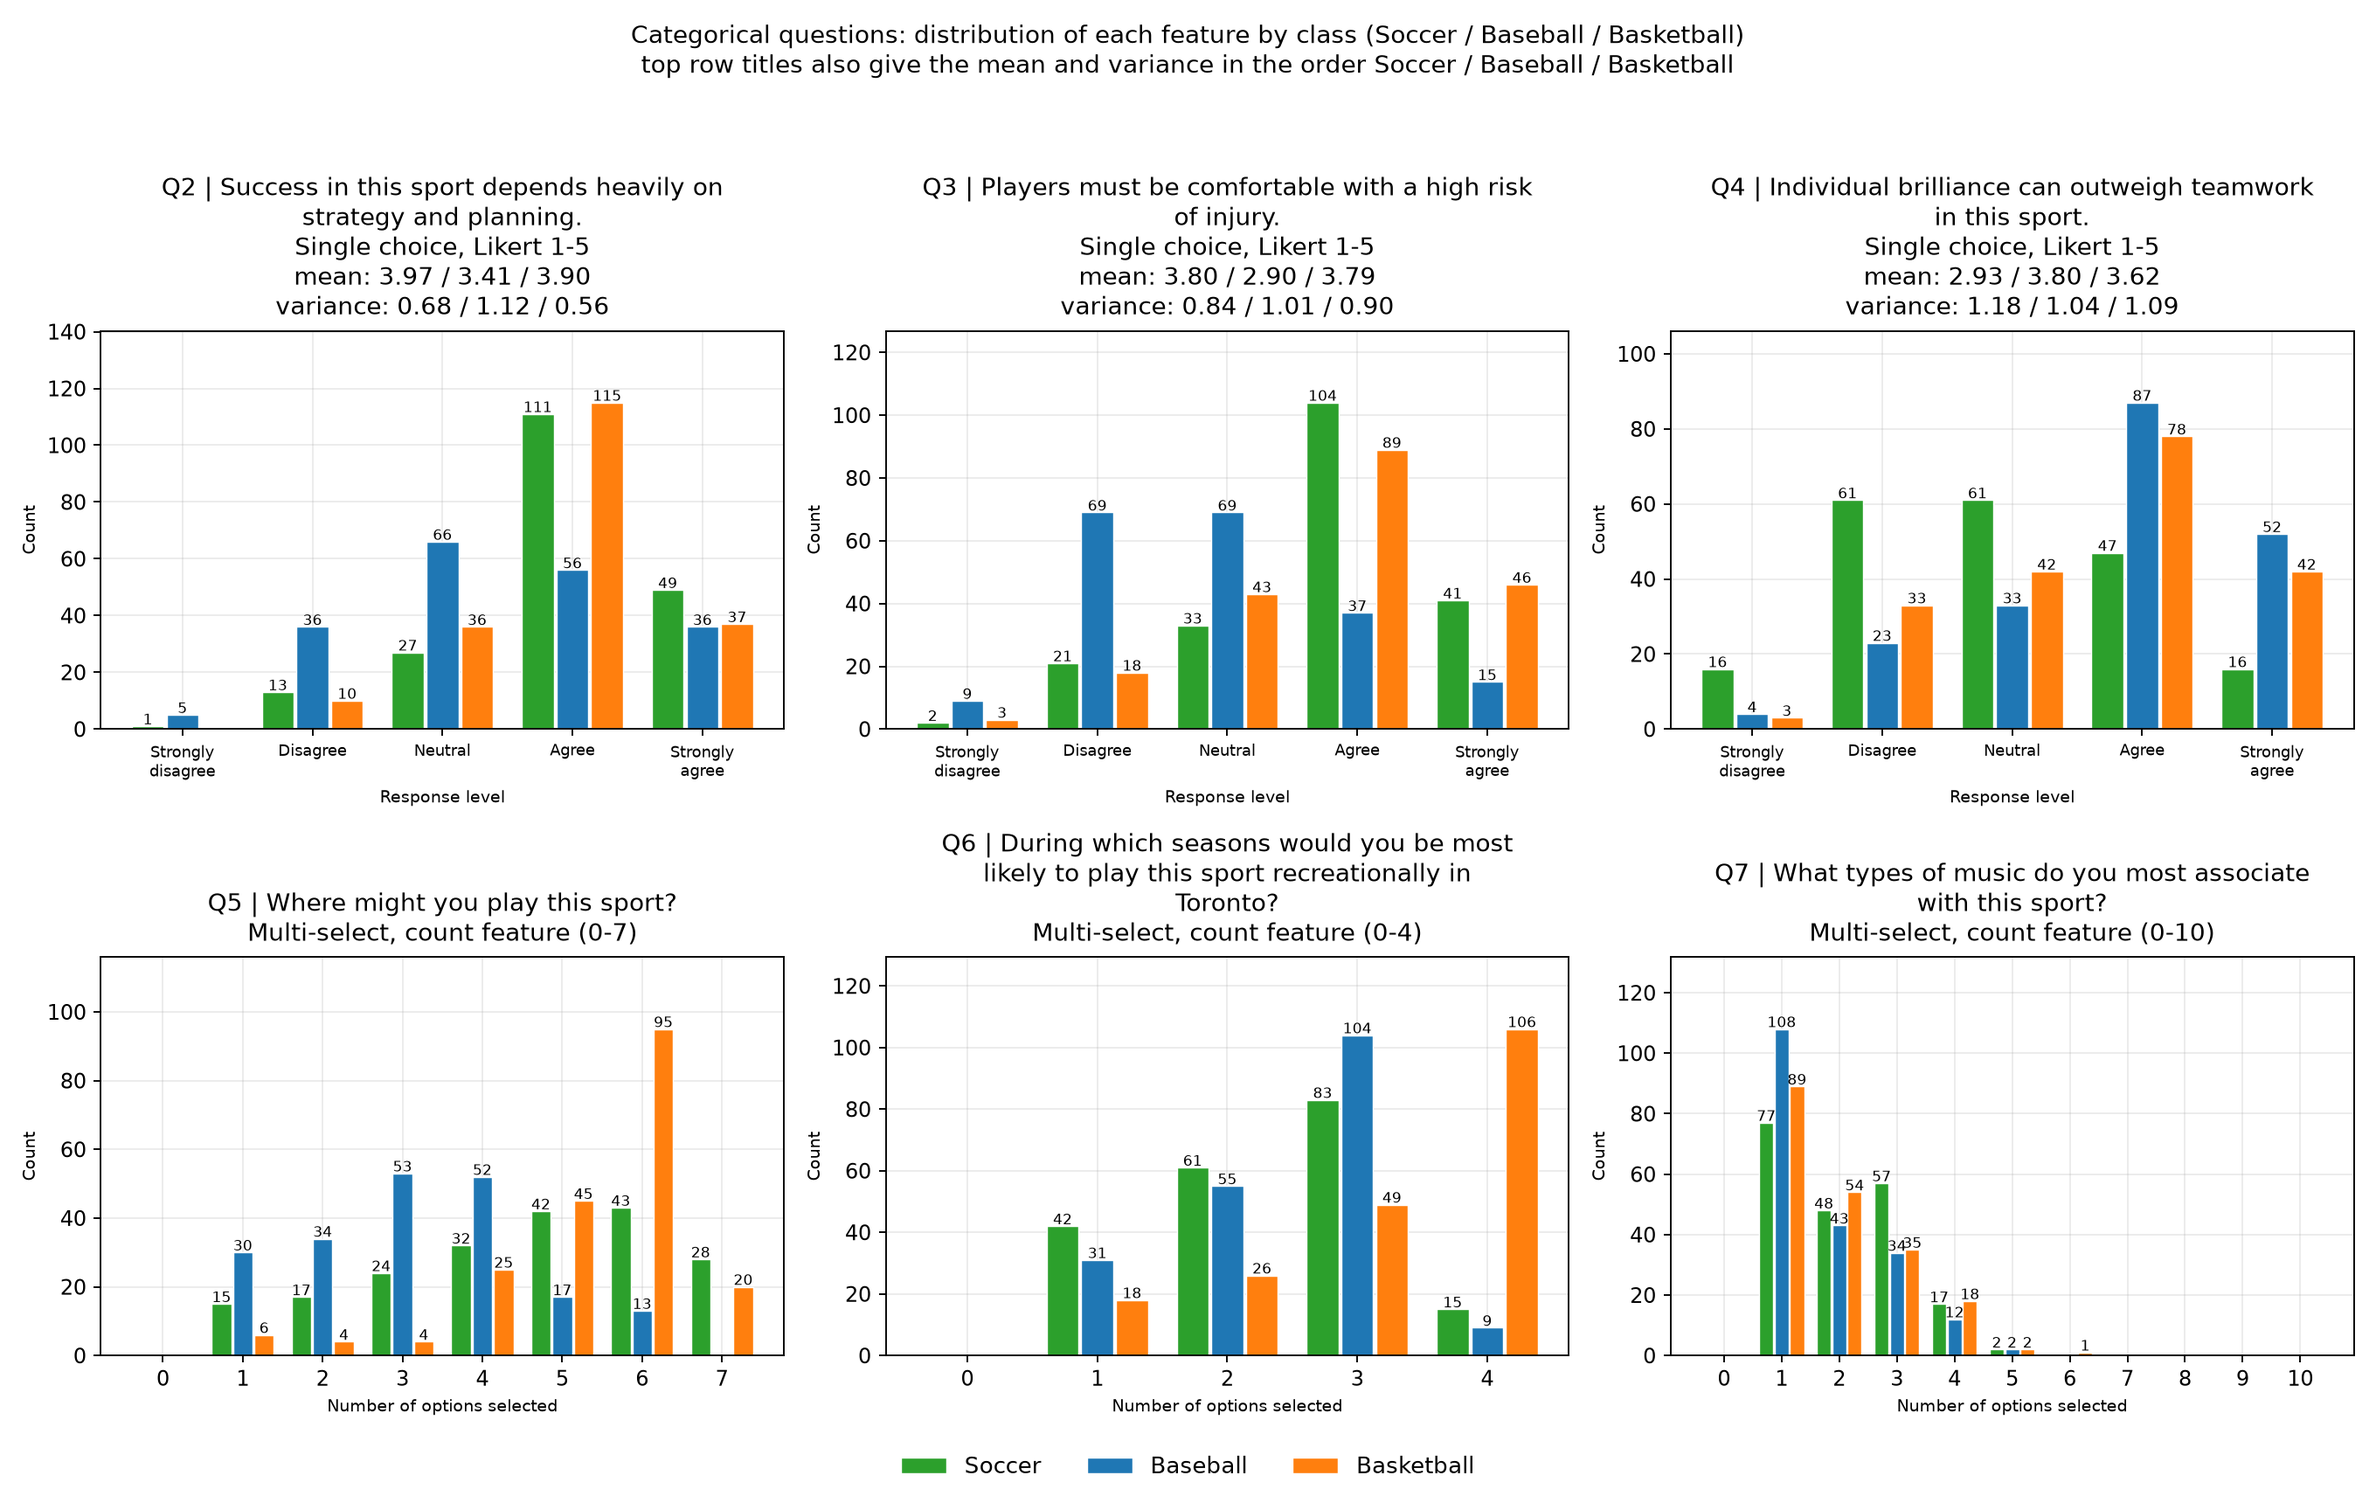
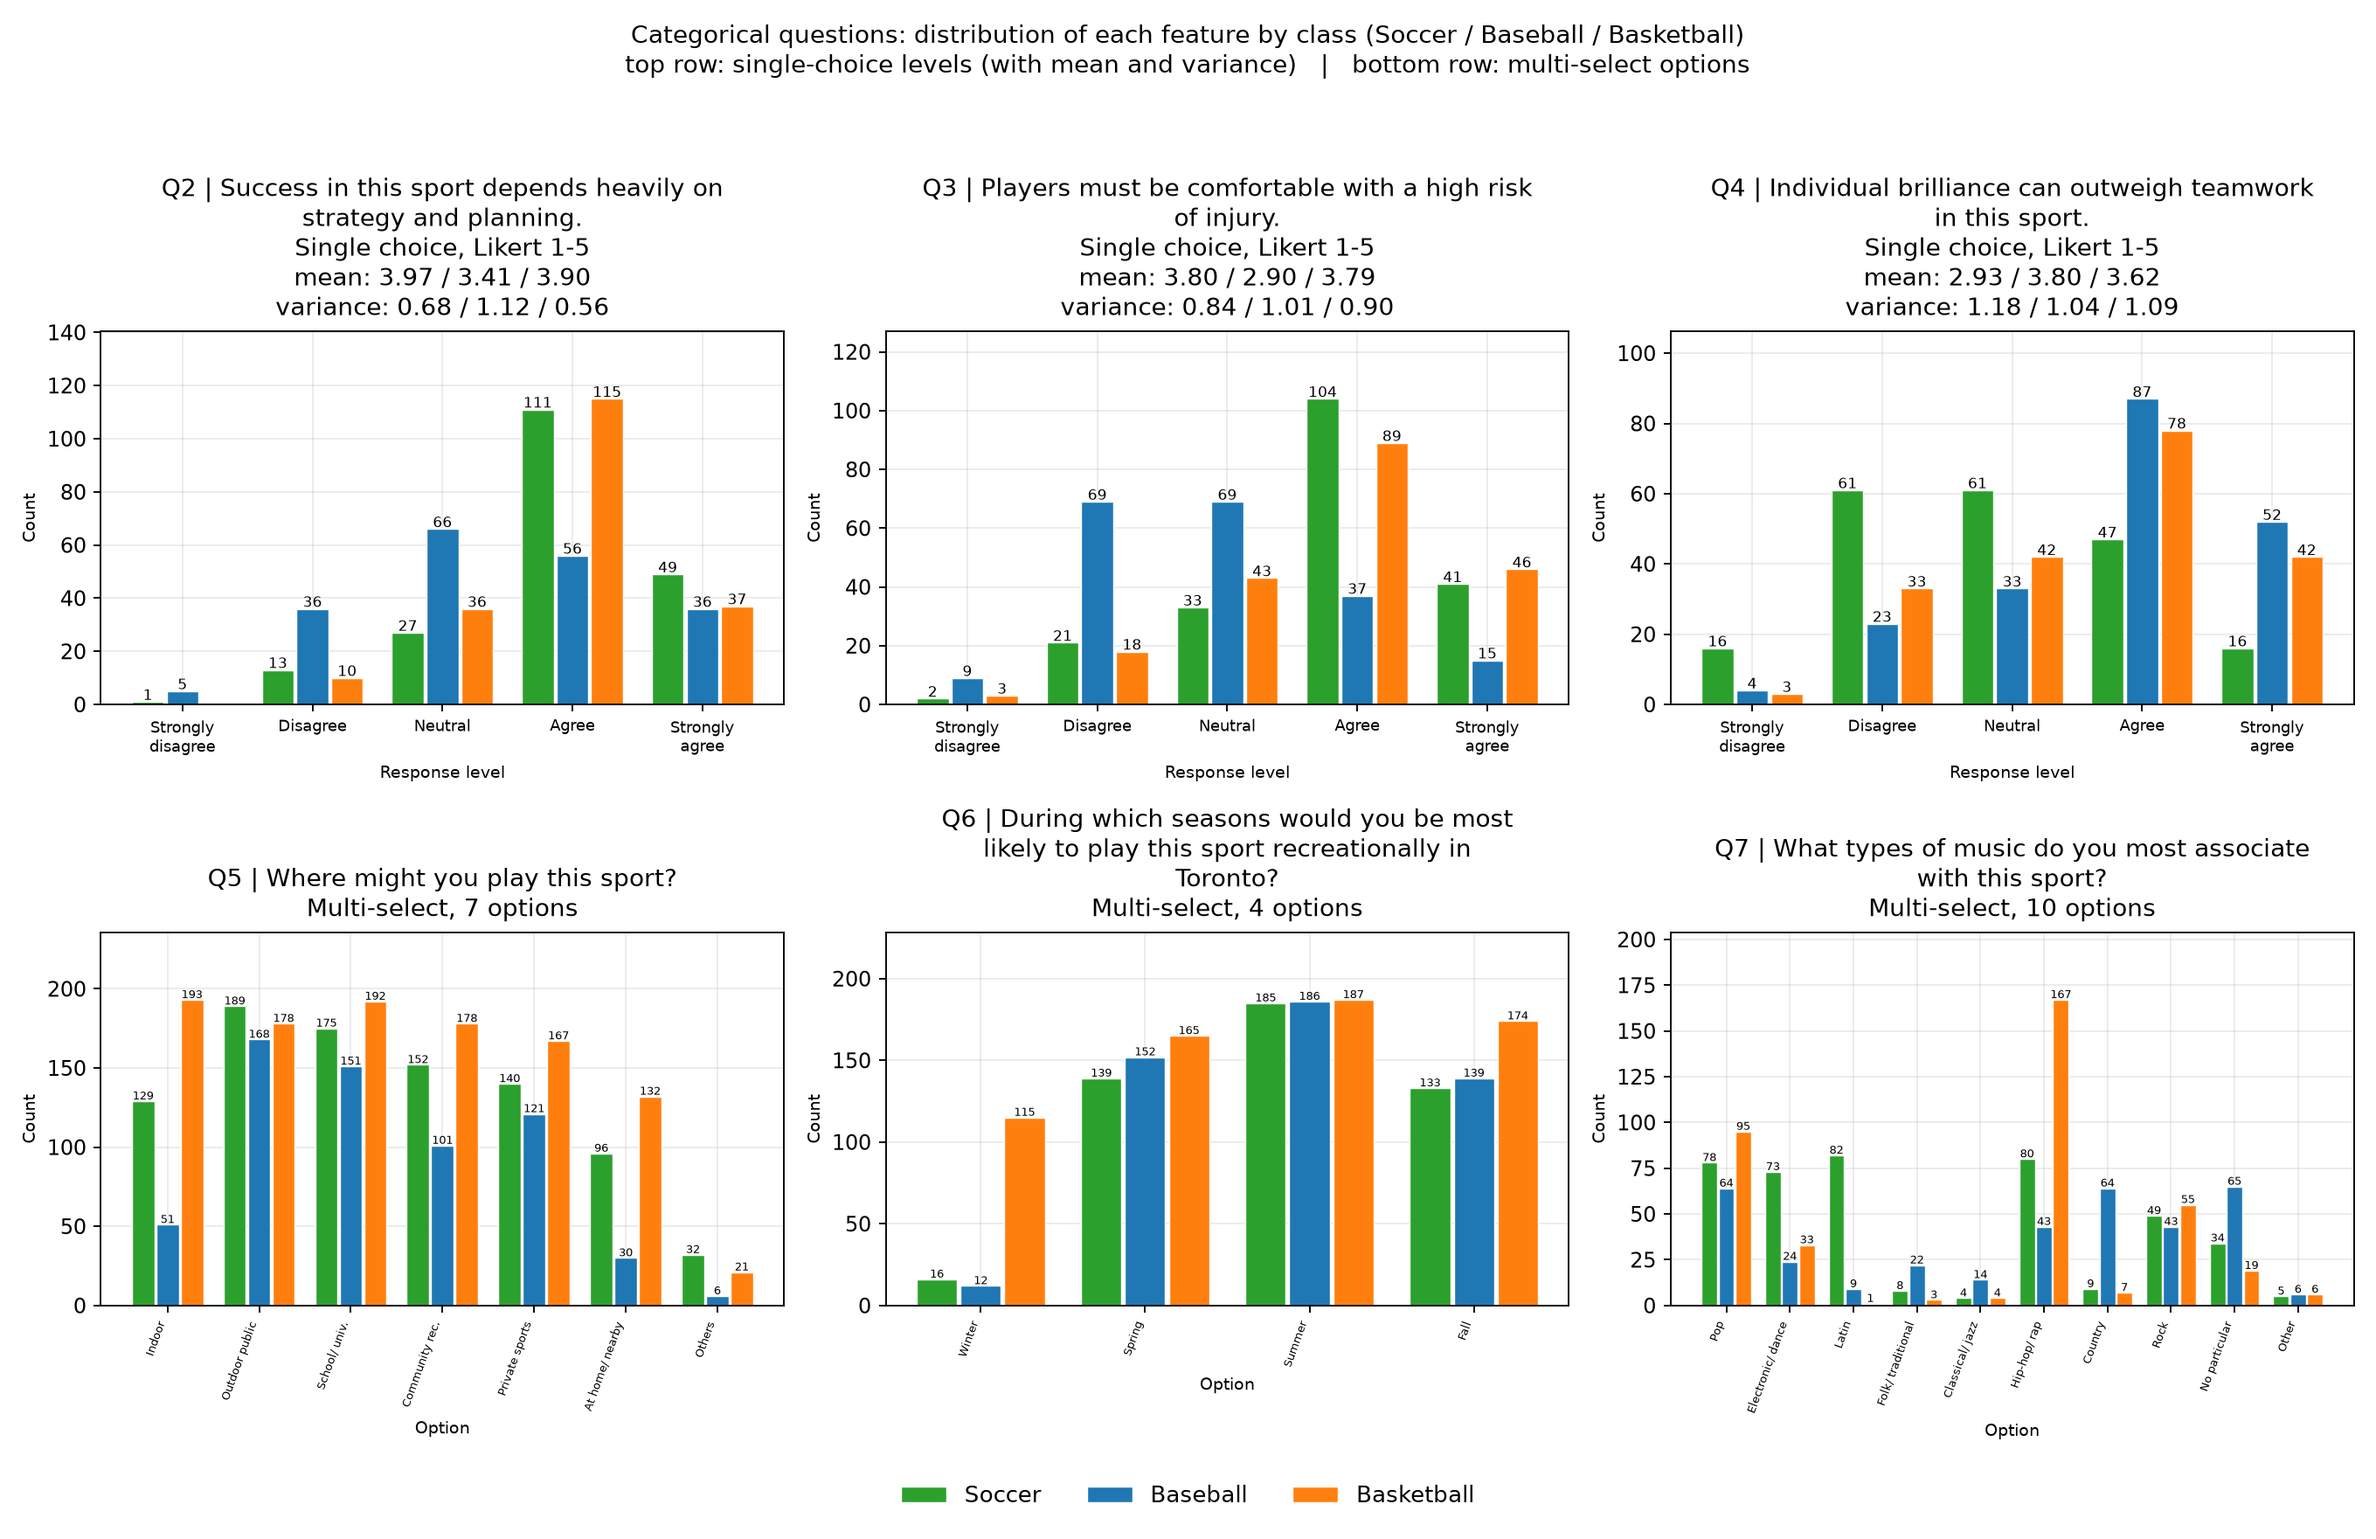
update overview figure

diff --git a/data_visualization/plot_histograms.py b/data_visualization/plot_histograms.py
@@ -110,7 +110,8 @@ def col_by_prefix(df, prefix):
     return hits[0]
 
 
-def grouped_hist(ax, positions, values_by_class, counts_by_class, annotate_pct=False):
+def grouped_hist(ax, positions, values_by_class, counts_by_class, annotate_pct=False,
+                 label_fontsize=7):
     """One bar per (category, class); the class count is written above each bar."""
     n_cls = len(CLASS_ORDER)
     width = 0.8 / n_cls
@@ -126,7 +127,7 @@ def grouped_hist(ax, positions, values_by_class, counts_by_class, annotate_pct=F
             if annotate_pct and counts_by_class[cls]:
                 txt += f"\n{100 * v / counts_by_class[cls]:.0f}%"
             ax.annotate(txt, (rect.get_x() + rect.get_width() / 2, v),
-                        ha="center", va="bottom", fontsize=7, linespacing=1.0)
+                        ha="center", va="bottom", fontsize=label_fontsize, linespacing=1.0)
     ax.set_ylabel("Number of respondents (count)")
     return max((max(v) if len(v) else 0) for v in values_by_class.values())
 
@@ -243,6 +244,19 @@ def plot_multi(df, spec, out_path):
     plt.close(fig)
 
 
+def option_values(df, spec):
+    """Counts of respondents who selected each option, per class."""
+    q, question, n_opt, vocab = spec
+    col = col_by_prefix(df, question[:45])
+    raw = df[col].astype(str).str.strip().replace("", np.nan)
+    toks = tokens_of(raw)
+    valid = raw.notna()
+    counts = {c: int(((df.label == c) & valid).sum()) for c in CLASS_ORDER}
+    values = {c: [int(toks[(df.label == c) & valid].map(lambda s, o=o: o in s).sum())
+                  for o, _ in vocab] for c in CLASS_ORDER}
+    return values, counts, vocab
+
+
 def count_values(df, spec):
     q, question, n_opt, vocab = spec
     col = col_by_prefix(df, question[:45])
@@ -278,8 +292,8 @@ def plot_count_feature(df, spec, out_path):
     plt.close(fig)
 
 
-def plot_overview(df, single_vals, count_vals, out_path):
-    fig, axes = plt.subplots(2, 3, figsize=(16.0, 10.2))
+def plot_overview(df, single_vals, multi_vals, out_path):
+    fig, axes = plt.subplots(2, 3, figsize=(16.0, 10.4))
 
     for ax, (spec, values, counts) in zip(axes[0], single_vals):
         q, question, kind = spec
@@ -295,15 +309,17 @@ def plot_overview(df, single_vals, count_vals, out_path):
                      f"mean: {mean_s}\nvariance: {var_s}", fontsize=7.8)
         finish(ax, max(max(v) for v in values.values()), legend=False, title_pad=8)
 
-    for ax, (spec, values, counts, n_opt) in zip(axes[1], count_vals):
-        q, question, _, _ = spec
-        positions = np.arange(0, n_opt + 1)
-        grouped_hist(ax, positions, values, counts)
+    for ax, (spec, values, counts, vocab) in zip(axes[1], multi_vals):
+        q, question, n_opt, _ = spec
+        positions = np.arange(len(vocab))
+        grouped_hist(ax, positions, values, counts, label_fontsize=5.5)
         ax.set_xticks(positions)
-        ax.set_xlabel("Number of options selected", fontsize=8)
+        ax.set_xticklabels([short.replace("\n", " ") for _, short in vocab],
+                           fontsize=5.5, rotation=70, ha="right")
+        ax.set_xlabel("Option", fontsize=8)
         ax.set_ylabel("Count", fontsize=8)
         ax.set_title(f"{q} | {wrap(question, 44)}\n"
-                     f"Multi-select, count feature (0-{n_opt})", fontsize=7.5)
+                     f"Multi-select, {n_opt} options", fontsize=7.5)
         finish(ax, max(max(v) for v in values.values()), legend=False, title_pad=8)
 
     handles, labels = axes[0][0].get_legend_handles_labels()
@@ -311,8 +327,8 @@ def plot_overview(df, single_vals, count_vals, out_path):
                fontsize=11, bbox_to_anchor=(0.5, 0.005))
     fig.suptitle("Categorical questions: distribution of each feature by class "
                  "(Soccer / Baseball / Basketball)\n"
-                 "top row titles also give the mean and variance in the order "
-                 "Soccer / Baseball / Basketball", fontsize=12)
+                 "top row: single-choice levels (with mean and variance)   |   "
+                 "bottom row: multi-select options", fontsize=12)
     fig.tight_layout(rect=(0, 0.045, 1, 0.95))
     save(fig, out_path, dpi=170)
     plt.close(fig)
@@ -349,21 +365,22 @@ def main():
         plot_single(df, spec, path)
         print(f"  wrote {path}")
 
-    count_vals = []
+    multi_vals = []
     for j, spec in enumerate(MULTI_SPECS, 4):
         q = spec[0]
         path = os.path.join(args.out_dir, f"{j:02d}_multi_{q}.png")
         plot_multi(df, spec, path)
         print(f"  wrote {path}")
 
-        values, counts, n_opt = count_values(df, spec)
-        count_vals.append((spec, values, counts, n_opt))
+        values, counts, vocab = option_values(df, spec)
+        multi_vals.append((spec, values, counts, vocab))
+
         p = os.path.join(args.out_dir, f"{j + 3:02d}_count_{q}.png")
         plot_count_feature(df, spec, p)
         print(f"  wrote {p}")
 
     overview = os.path.join(args.out_dir, "00_overview.png")
-    plot_overview(df, single_vals, count_vals, overview)
+    plot_overview(df, single_vals, multi_vals, overview)
     print(f"  wrote {overview}")
 
 

diff --git a/data_visualization/plotting_report.md b/data_visualization/plotting_report.md
@@ -131,11 +131,12 @@ they show raw counts only.
 ### 3.2 Overview figure
 
 `00_overview.png` is a 2 × 3 grid: the top row repeats the three single-choice
-histograms (5 levels each), the bottom row shows the three "number of options
-selected" distributions. It is a one-glance summary; because the panels are small,
-the single-choice panels carry per-class mean and variance as two extra title lines
-instead of a per-bar block, and one shared legend is placed under the figure. The
-bottom row shows counts only.
+histograms (5 levels each), the bottom row shows the three multi-select option
+distributions (7 / 4 / 10 options). It is a one-glance summary of all six categorical
+questions; because the panels are small, the single-choice panels carry per-class
+mean and variance as two extra title lines instead of a per-bar block, the option
+labels of the bottom row are rotated, and one shared legend is placed under the
+figure.
 
 ### 3.3 Style conventions
 

diff --git a/data_visualization/README.md b/data_visualization/README.md
@@ -45,7 +45,7 @@ Dependencies: `pandas`, `matplotlib`, `Pillow` (all present in the `csc311` envi
 
 | File | Content |
 |---|---|
-| `figures/00_overview.png` | Overview: top row = the 3 single-choice questions on their 5 levels; bottom row = the 3 multi-select questions' "number of options selected" |
+| `figures/00_overview.png` | Overview: top row = the 3 single-choice questions on their 5 levels; bottom row = the 3 multi-select questions' option distributions (7 / 4 / 10 options) |
 | `figures/01_single_Q2.png` | Q2 strategy dependence: 5-level ordinal distribution (grouped by class) |
 | `figures/02_single_Q3.png` | Q3 injury risk: 5-level ordinal distribution (grouped by class) |
 | `figures/03_single_Q4.png` | Q4 individual brilliance: 5-level ordinal distribution (grouped by class) |
